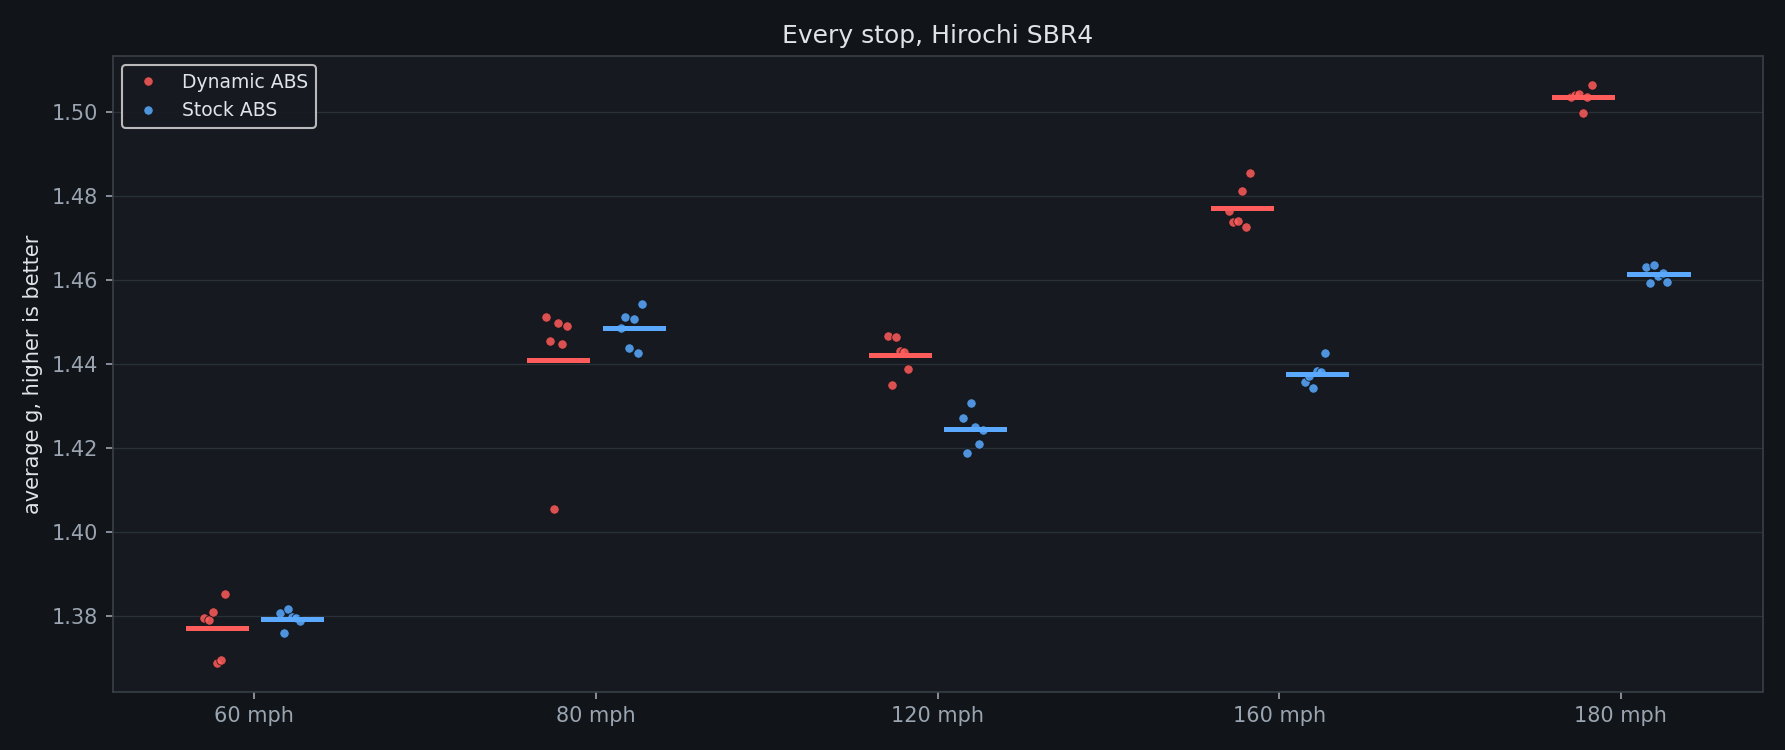
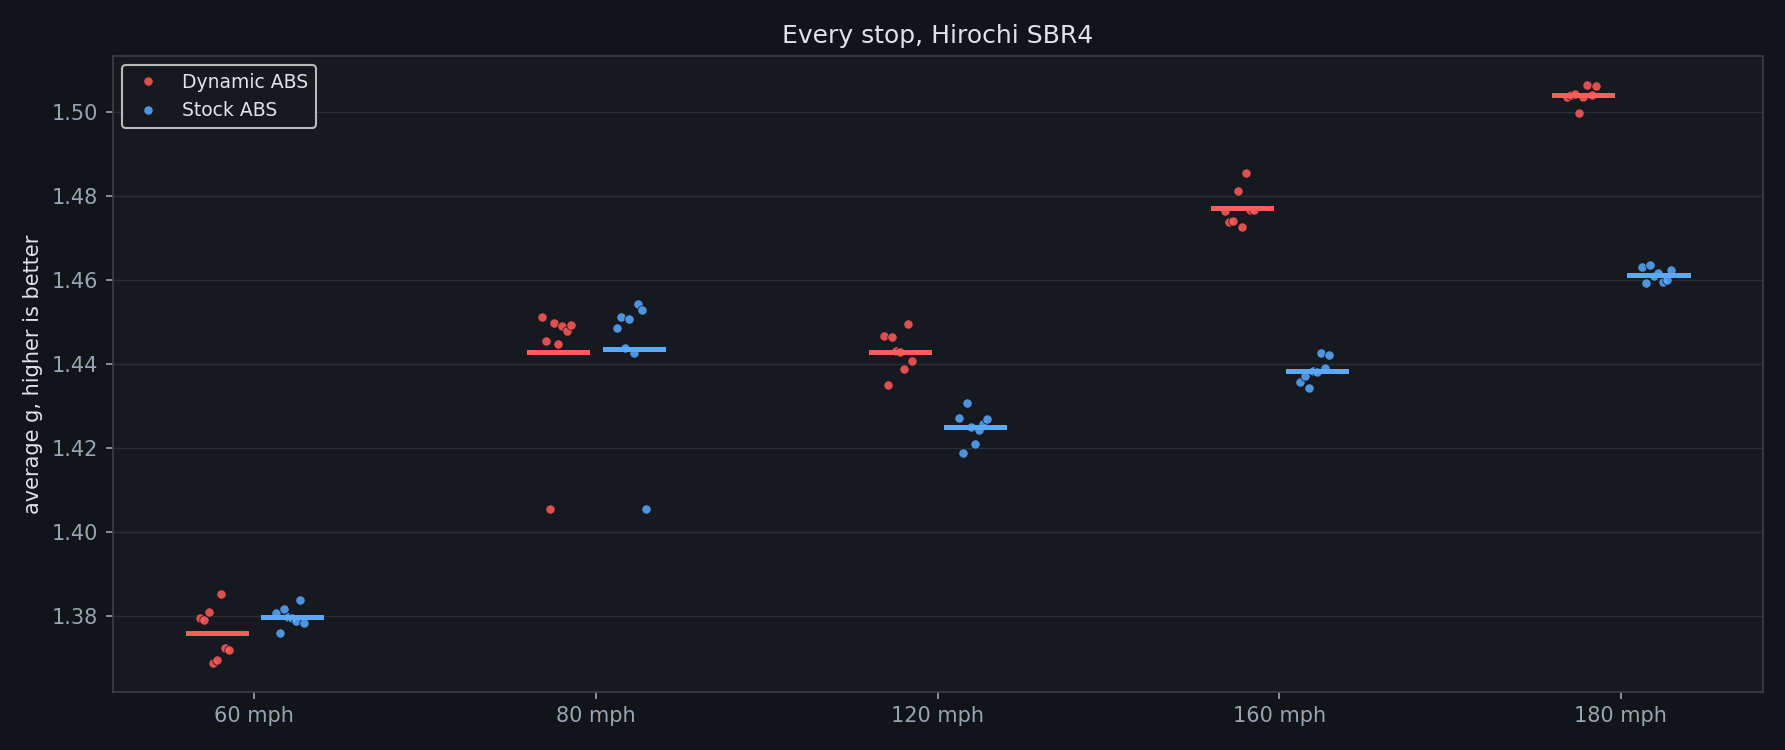
Publish V4.00: results rebuilt with a full respawn before every stop, so no state carries between measurements

diff --git a/README.md b/README.md
@@ -33,23 +33,11 @@ Tested on BeamNG.drive 0.39.4.0.20972 for the surface areas and BeamNG.tech 0.37
 
 | Speed | Average g against stock | Cars |
 |---|---|---|
-| 60 miles per hour | +0.0137 | 4 |
-| 80 miles per hour | +0.0043 | 4 |
-| 120 miles per hour | +0.0135 | 4 |
-| 160 miles per hour | +0.0395 | 2 |
-| 180 miles per hour | +0.0438 | 2 |
-
-### Cornering
-
-Sweeping left corners at 60 miles per hour with full brake, at the steer angles where the controllers separate most.
-
-These cornering figures are provisional. They were collected before the fresh spawn rule described above, so brake state carries between stops. They are being re measured and this table will be replaced when that finishes.
-
-| Steer | Stopping distance against stock | Cars |
-|---|---|---|
-| 0.20 | -5.32 metres | 4 |
-| 0.50 | -6.12 metres | 4 |
-| 1.00 | -5.98 metres | 4 |
+| 60 miles per hour | +0.0123 | 4 |
+| 80 miles per hour | +0.0058 | 4 |
+| 120 miles per hour | +0.0142 | 4 |
+| 160 miles per hour | +0.0375 | 2 |
+| 180 miles per hour | +0.0430 | 2 |
 
 ### Surfaces
 
